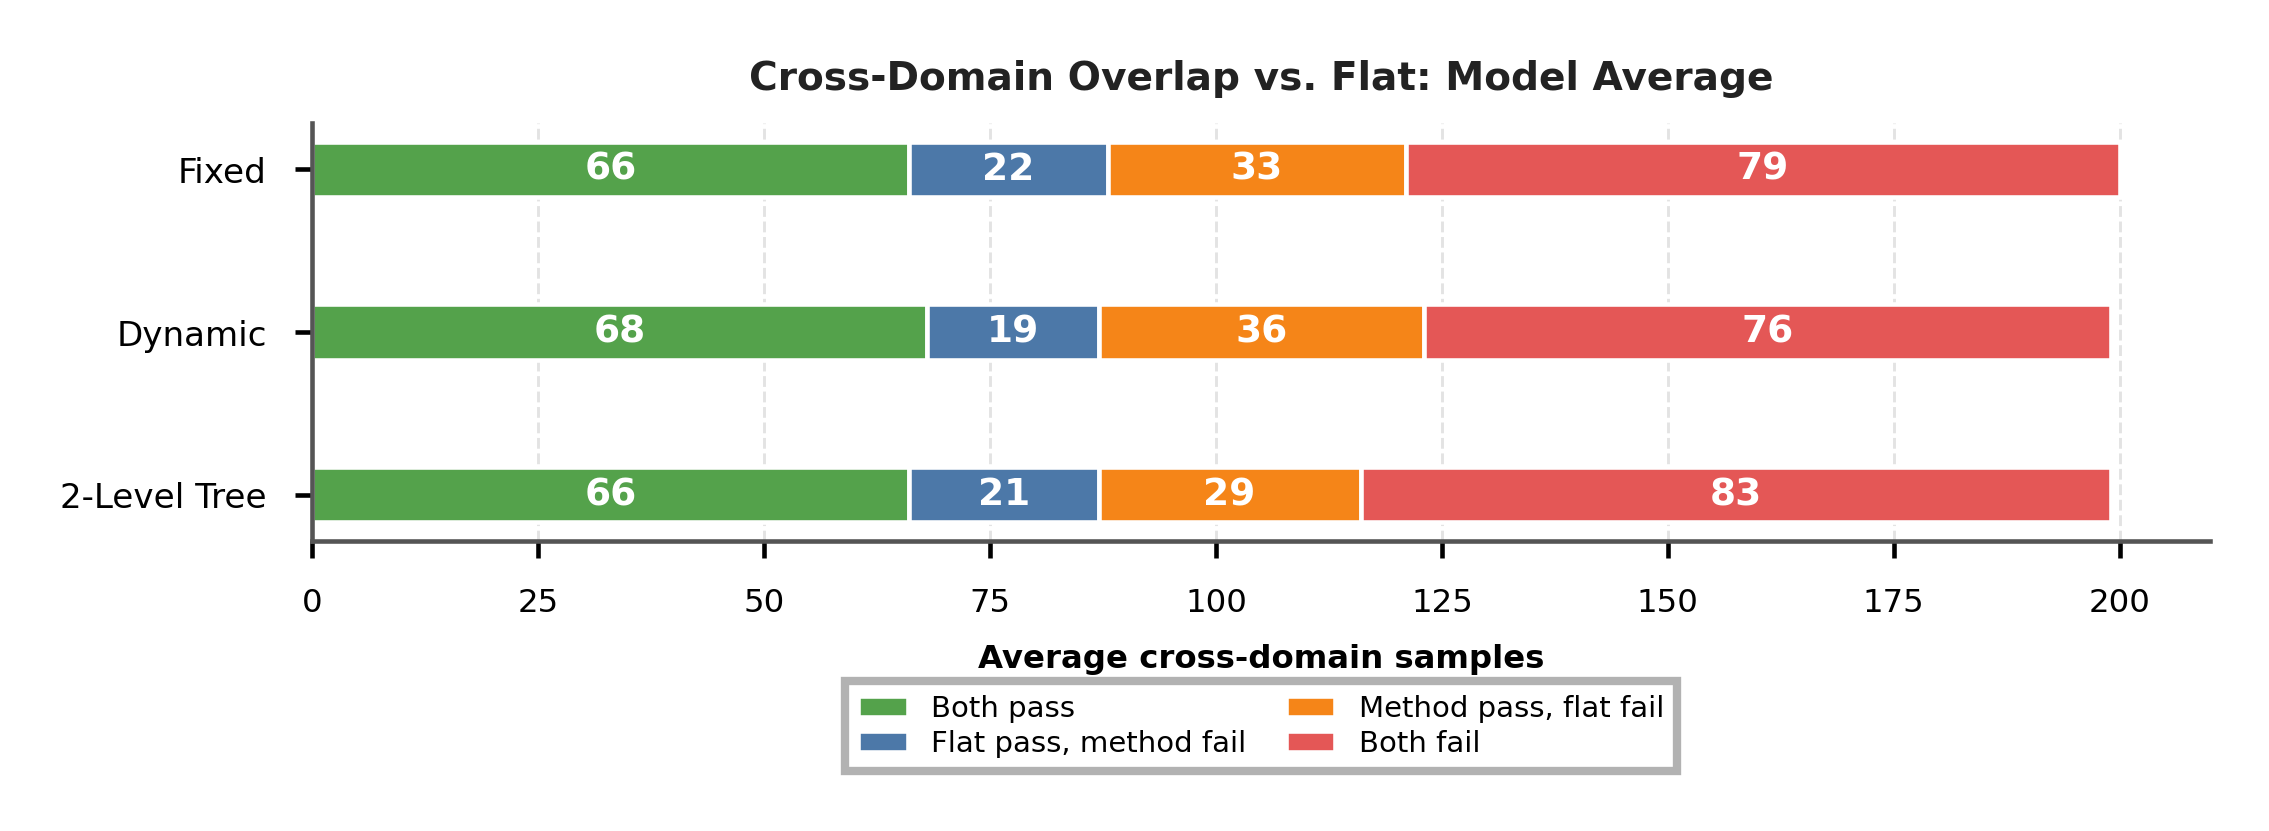
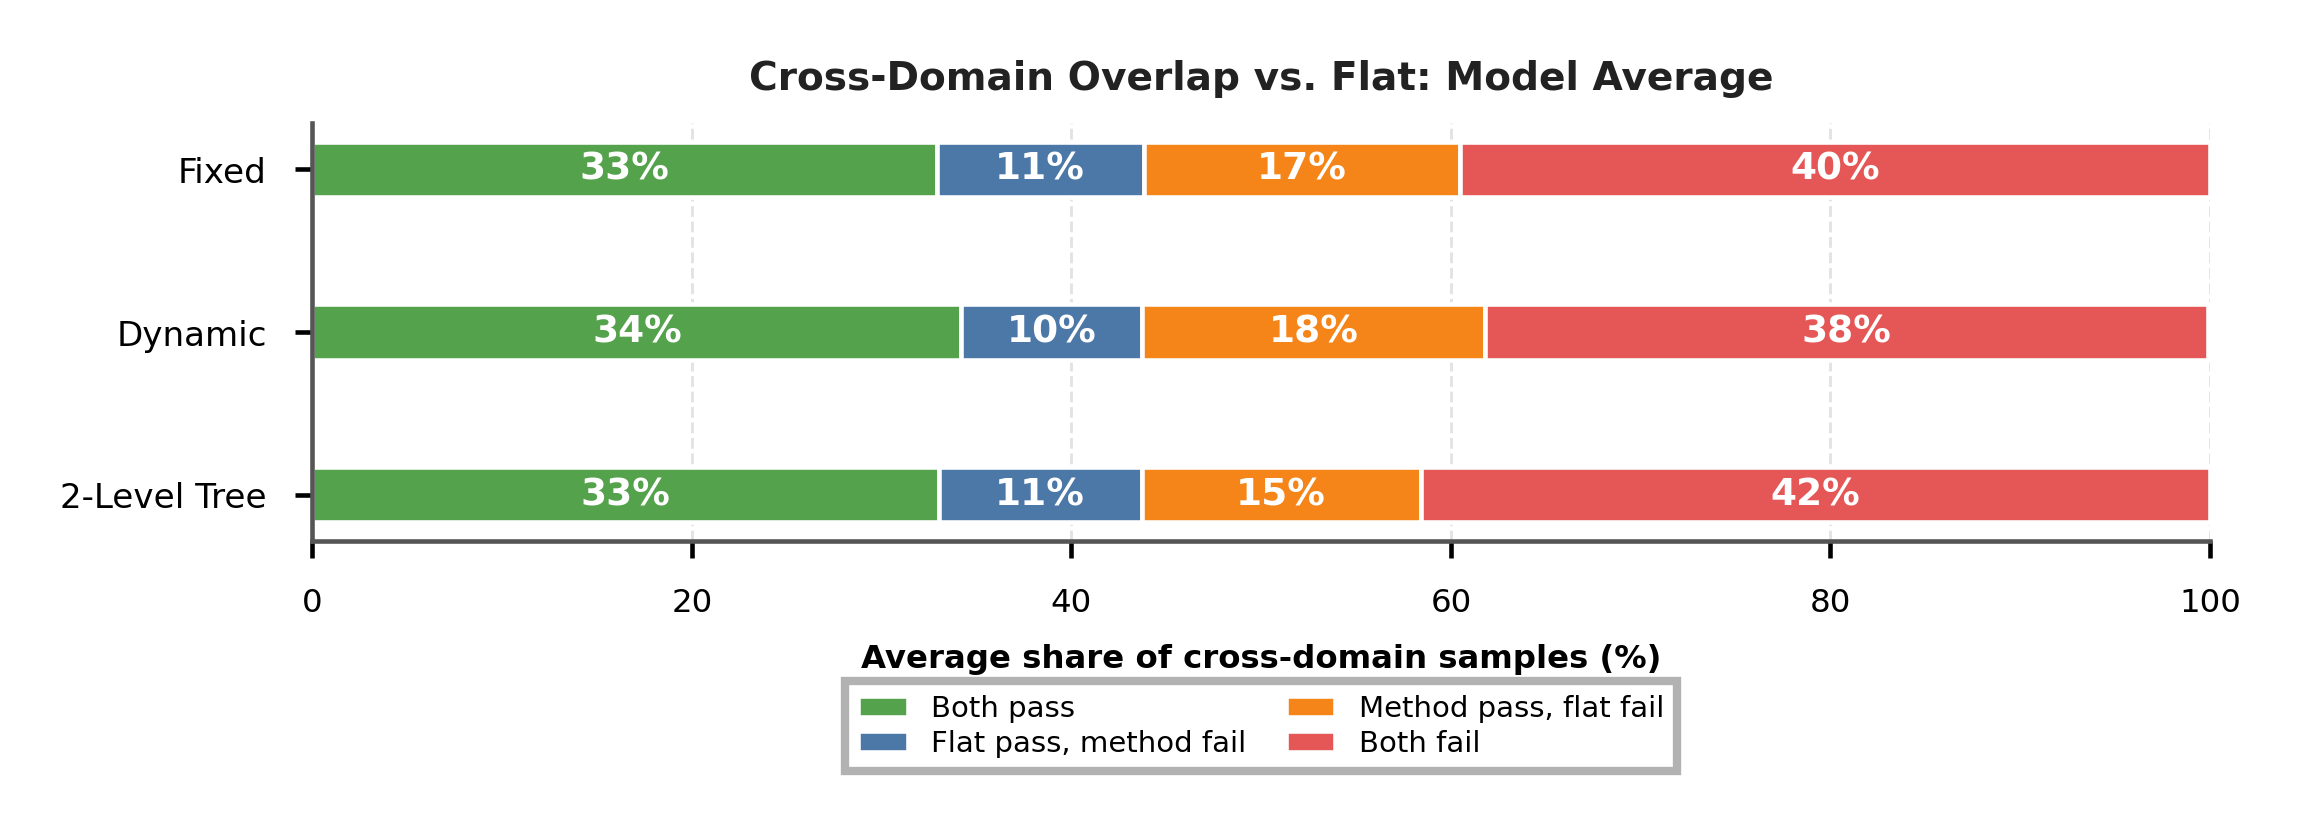
update sample-count figure to sample-percentage

diff --git a/analysis/persistbench/figures/multi_method_cd_outcomes.py b/analysis/persistbench/figures/multi_method_cd_outcomes.py
@@ -484,7 +484,7 @@ def print_counts(
             )
 
 
-def compute_average_counts(
+def compute_average_percentages(
     comparison_counts: dict[str, dict[str, dict[str, int]]],
     comparisons: list[ComparisonSpec],
 ) -> list[dict[str, float | int | str]]:
@@ -500,12 +500,17 @@ def compute_average_counts(
             "n_models": n_models,
         }
         for category in OUTCOME_CATEGORIES:
-            row[f"avg_{category}"] = round(
-                sum(counts[category] for counts in model_counts.values()) / n_models
+            percentages = [
+                counts[category] / total * 100.0
+                for counts in model_counts.values()
+                if (total := sum(counts.values())) > 0
+            ]
+            row[f"avg_{category}_pct"] = round(
+                sum(percentages) / len(percentages) if percentages else 0.0,
+                1,
             )
-        row["avg_total"] = round(
-            sum(sum(counts.values()) for counts in model_counts.values()) / n_models
-        )
+        has_samples = any(sum(counts.values()) > 0 for counts in model_counts.values())
+        row["avg_total_pct"] = 100.0 if has_samples else 0.0
         rows.append(row)
     return rows
 
@@ -536,7 +541,7 @@ def draw_average_figure(
         OUTCOME_LABELS,
         OUTCOME_COLORS,
     ):
-        values = np.array([float(row[f"avg_{category}"]) for row in rows])
+        values = np.array([float(row[f"avg_{category}_pct"]) for row in rows])
         ax.barh(
             y_positions,
             values,
@@ -548,11 +553,11 @@ def draw_average_figure(
             height=AVERAGE_BAR_HEIGHT,
         )
         for j, (value, left) in enumerate(zip(values, lefts)):
-            if value >= 3:
+            if value >= 2:
                 ax.text(
                     left + value / 2,
                     y_positions[j],
-                    f"{value:.0f}",
+                    f"{value:.0f}%",
                     ha="center",
                     va="center",
                     fontsize=AVERAGE_DATA_TEXT_SIZE,
@@ -563,7 +568,12 @@ def draw_average_figure(
 
     ax.set_yticks(y_positions)
     ax.set_yticklabels(labels, fontsize=AVERAGE_AXIS_TEXT_SIZE)
-    ax.set_xlabel("Average cross-domain samples", fontweight="semibold", labelpad=3)
+    ax.set_xlim(0, 100)
+    ax.set_xlabel(
+        "Average share of cross-domain samples (%)",
+        fontweight="semibold",
+        labelpad=3,
+    )
     ax.set_title(title, fontsize=TITLE_TEXT_SIZE, fontweight="semibold", pad=4, color="#222222")
 
     ax.legend(
@@ -611,7 +621,7 @@ def write_average_outputs(
     output_stem: str,
 ) -> None:
     output_dir.mkdir(parents=True, exist_ok=True)
-    rows = compute_average_counts(comparison_counts, comparisons)
+    rows = compute_average_percentages(comparison_counts, comparisons)
     csv_path = output_dir / f"{output_stem}_averages.csv"
     json_path = output_dir / f"{output_stem}_averages.json"
 
@@ -619,14 +629,14 @@ def write_average_outputs(
         "comparison",
         "label",
         "n_models",
-        "avg_both_pass",
-        "avg_first_pass_second_fail",
-        "avg_second_pass_first_fail",
-        "avg_both_fail",
-        "avg_total",
+        "avg_both_pass_pct",
+        "avg_first_pass_second_fail_pct",
+        "avg_second_pass_first_fail_pct",
+        "avg_both_fail_pct",
+        "avg_total_pct",
     ]
     with csv_path.open("w", newline="", encoding="utf-8") as fh:
-        writer = csv.DictWriter(fh, fieldnames=fieldnames)
+        writer = csv.DictWriter(fh, fieldnames=fieldnames, lineterminator="\n")
         writer.writeheader()
         writer.writerows(rows)
 
@@ -639,11 +649,11 @@ def write_average_outputs(
     for row in rows:
         print(
             f"{row['label']:17s}  n={row['n_models']}  "
-            f"both_pass={row['avg_both_pass']:3d}  "
-            f"flat_pass_other_fail={row['avg_first_pass_second_fail']:3d}  "
-            f"other_pass_flat_fail={row['avg_second_pass_first_fail']:3d}  "
-            f"both_fail={row['avg_both_fail']:3d}  "
-            f"total={row['avg_total']:3d}"
+            f"both_pass={row['avg_both_pass_pct']:5.1f}%  "
+            f"flat_pass_other_fail={row['avg_first_pass_second_fail_pct']:5.1f}%  "
+            f"other_pass_flat_fail={row['avg_second_pass_first_fail_pct']:5.1f}%  "
+            f"both_fail={row['avg_both_fail_pct']:5.1f}%  "
+            f"total={row['avg_total_pct']:5.1f}%"
         )
     print(f"Averages saved to: {csv_path.resolve()}")
     print(f"Averages saved to: {json_path.resolve()}")

diff --git a/analysis/persistbench/figures/multi_method_cd_outcomes/flat_fixed_dynamic_tree_cd_overlap_caption.tex b/analysis/persistbench/figures/multi_method_cd_outcomes/flat_fixed_dynamic_tree_cd_overlap_caption.tex
@@ -7,17 +7,18 @@ This sample-level overlap analysis shows that all structured memory methods
 recover cross-domain samples that fail under the Flat Memory List, so the
 improvement is not only visible in aggregate failure rates. Averaged over the
 seven evaluated models, dynamic partitions remain strongest overall, recovering
-the largest average number of Flat-failing samples while keeping shared failures
+the largest average share of Flat-failing samples while keeping shared failures
 below fixed partitions and the two-level tree. Compared with fixed partitions,
 dynamic partitions recover more samples where the Flat Memory List fails and
-also reduce the average number of samples where both methods fail.
+also reduce the average share of samples where both methods fail.
 
 \begin{figure}[t]
   \centering
   \includegraphics[width=\linewidth]{figures/flat_fixed_dynamic_tree_cd_overlap_averages.pdf}
   \caption{
   Average sample-level cross-domain outcome overlap between the Flat Memory List
-  and each structured memory method, averaged over the seven evaluated models.
+  and each structured memory method, shown as percentages averaged over the
+  seven evaluated models.
   Each horizontal bar compares the Flat Memory List against one method. Green
   denotes samples where both methods pass; blue denotes samples where the Flat
   Memory List passes but the comparison method fails; orange denotes samples
